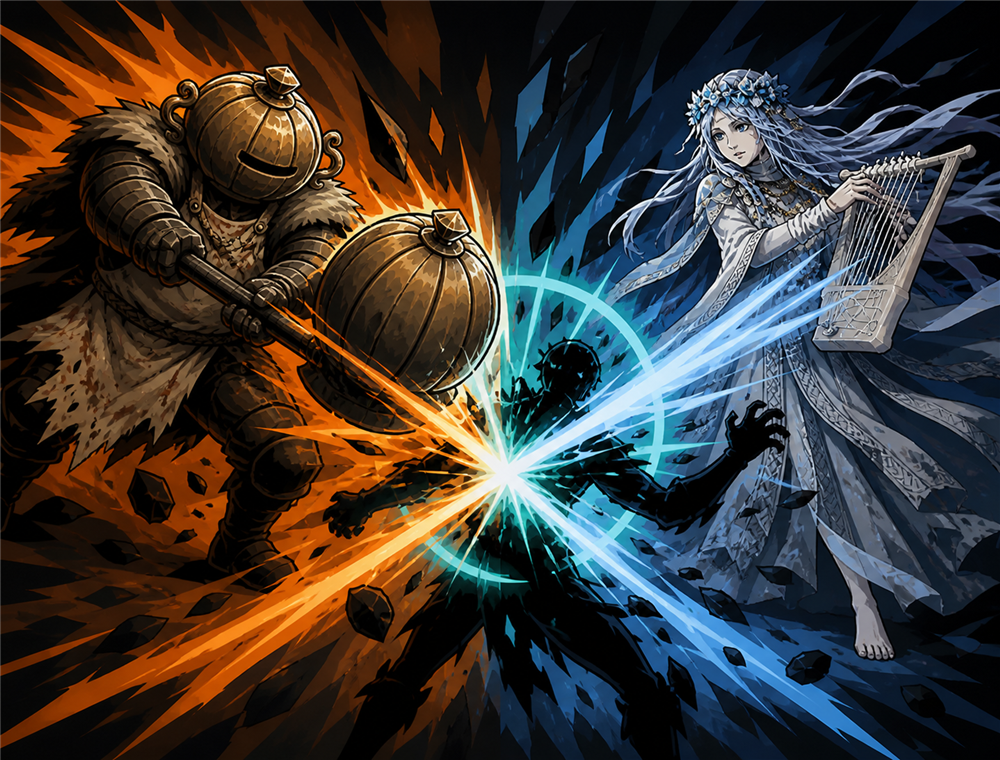
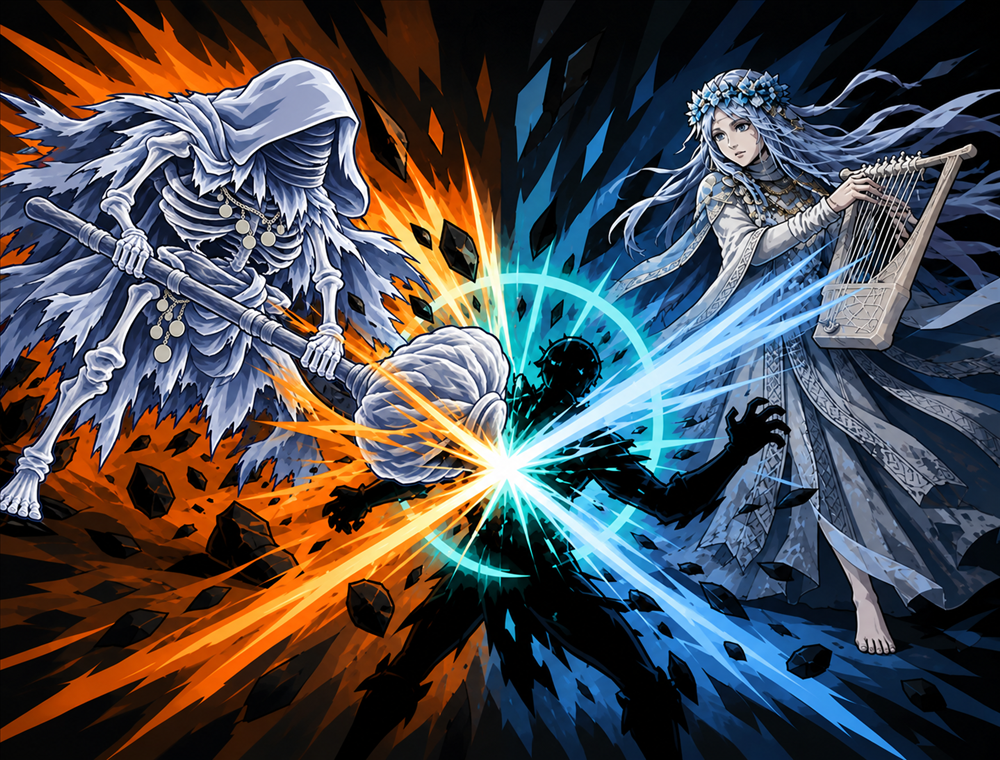
Update approved Revenant artwork and petite character visuals

diff --git a/design/Revenant_家人视觉规范.md b/design/Revenant_家人视觉规范.md
@@ -1,5 +1,18 @@
 # 复仇者家人视觉规范
 
+## 最新用户修正（2026-10-05，本节覆盖历史冲突描述）
+
+- 最新审批与构图状态：巨大兜帽宽骨架弗雷德利克战斗形象及配套动画均已获批；蛮力开路、换手、破阵重锤、合击、弗雷德利克五张卡图已获批并覆盖正式。后续十张均已获用户批准并覆盖正式；协奏曲、为我而战使用干净细线的非塔罗上一版，塔罗候选不入库。
+- 「白影诱惑」最新构图覆盖历史“只删除旧家人”：保留原白影身份、红箭与蓝黑纹理，白影置于画面中心，蓝色保护圆环完整包围白影，红箭在环外受阻；不出现家人。
+
+- 最新标注图将弗雷德利克的辨识度固定为巨大兜帽、横向格外宽的肋笼和骨盆；四肢保持骨感，不画肌肉。海伦为矮小瘦弱、小兜帽和窄骨架。双方服饰相近时以这三个比例区别，不只放大披布或武器。
+- 弗雷德利克战斗形象批准前，暂停卡图重绘；候选不能先作为卡图基准。
+
+- 弗雷德利克按正面实机参考呈现高大魁梧的整体体量：大胸腔、佝偻肩背与宽展披布，外露四肢保持骨感。禁止健美胸腹肌、粗壮肌肉手臂和肌肉大腿；魁梧不是肌肉化。保留与海伦相似的自然遮脸兜帽、残破披布、垂链圆饰和巨大圆头长柄锤；不恢复南瓜盔或厨师围裙。整体大小与披布体量以实机参考为准，不能用“枯瘦”把整体画得小巧；骨感四肢仍保留。
+- 只有三位家人使用统一冷白灵体效果；复仇者本人的常规卡图保持实体皮肤、衣物和木琴本色，特殊通灵形态除外。
+- 家人卡图修正必须保留对应正式原图的背景主色与图形纹理，不得弱化原图美观或用统一冷色抽象背景取代。
+- 「白影诱惑」保留原来的白影、红箭、蓝黑纹理与拱形，仅删除旧家人，不添加替代家人。
+
 > 本文件是海伦、弗雷德利克和塞巴斯蒂安在战斗贴图、呼唤界面、卡图与角色选择背景中的最高优先级视觉规范。用户最新书面定义高于历史资产、旧预览与旧提示词；与本文件冲突的“露脸海伦”“普通重锤弗雷德利克”“管家礼服塞巴斯蒂安”全部作废。
 
 ## 1. 共通规范

diff --git a/design/Frederick_美术强制规范.md b/design/Frederick_美术强制规范.md
@@ -1,5 +1,15 @@
 # 弗雷德利克 Frederick 美术强制规范
 
+## 最新体型修正（2026-10-05，优先于全部历史身份段）
+
+用户最新标注图明确三个骨架识别点：**巨大头部兜帽、格外宽的肋笼、格外宽的骨盆**。魁梧来自骨架本身的横向宽度，不只是披布体积；手臂和双腿仍骨感，不添加肌肉。兜帽高大、宽展、自然钝圆，遮面褶层覆盖面部，不再继承海伦的小型贴头尖兜帽。胸腔与骨盆必须同时宽，禁止把髋部画成细窄尖腰。海伦保持矮小瘦弱、兜帽与骨架均纤细，以比例区别服装相近的两人。此要求覆盖下面历史“小型自然尖兜帽”“收窄腰部”“仅披布体现体量”等冲突描述。
+
+执行顺序：当前只重绘弗雷德利克战斗形象并提交候选。**战斗形象获用户批准前，暂停所有卡图重绘，不将未获批战斗候选用于卡图。**
+
+用户已批准 `design/卡图预览/弗雷德利克_巨大兜帽宽骨架_20261005/frederick_candidate.png`，当前配套动画必须以这张图为唯一身份基准，不能使用小兜帽窄肋笼的旧正式图或之前的肌肉版候选。新动作帧先提交动画预览；本轮只制作配套动画。
+
+用户随后澄清：魁梧不等于肌肉，必须按正面实机参考图重建。高大体量来自长躯干、大胸腔、佝偻肩背、宽展披布、层叠束裹与巨大重锤；外露手臂和腿仍为骨感形态，不添加胸肌、腹肌、肱二头肌、肌肉大腿或健美人体。不得把整体缩成小巧纤弱的人形，也不得把骨感肢体扩大成肌肉。自然遮脸布兜帽、残破披布、链饰、完整双腿、圆钝长柄锤及冷白青蓝灵体效果保持。
+
 > 2026-10-05 依据用户提供的三张实际游戏截图重建。适用于战斗贴图、呼唤界面、家人卡图、角色选择剪影与后续动画。弗雷德利克身份造型以本文件及附图为准；旧版“魁梧厨师、南瓜头铁盔、厨师围裙”描述作废。截图确定形体，《杀戮尖塔2》原版资产确定项目绘画语言。
 
 ## 最新获批造型覆盖（2026-10-05）

diff --git a/design/Revenant_角色设计与动作强制规范.md b/design/Revenant_角色设计与动作强制规范.md
@@ -1,5 +1,12 @@
 # 复仇者（Revenant）角色设计与动作强制规范
 
+## 最新用户批准与修正（2026-10-05）
+
+- 已批准战斗、商店、篝火新形象：裙摆到小腿中段，露出部分小腿、脚踝与赤足；三处场景实际可见尺寸各为此前的 `0.7` 倍，保持成年女性面容与人类比例，不改为幼态角色。此要求覆盖下文历史拖地裙摆与等高描述。
+- 常规卡图中的复仇者本人保持实体：瓷白肤色、灰白服装、蓝灰披肩、旧金饰物与浅色木琴保留本色，不因家人是灵体而将她也绘制成灵体。「通灵形态」等明确指定的特殊形态另按对应批准资源。
+- 弗雷德利克按正面实机图的高大整体比例、大胸腔与宽展披布体现魁梧，外露四肢保持骨感；禁止肌肉化，不添加健美胸肌、腹肌或粗壮肌肉手臂。兜帽仍与海伦相似并遮住脸部，巨大圆头长柄锤、残破披布及灵体效果保持。
+- 修正家人卡图时保留各张正式原图具有辨识度的背景颜色、纹理、构图与事件；不得用批量统一的蓝黑碎片背景替代。
+
 > 本文是项目内复仇者角色立绘、角色选择界面、战斗姿态、头像、商店/篝火立绘和后续动画资产的最高优先级视觉规范。任何与本文冲突的旧提示词、旧资产或泛化的“白发死灵法师”印象均作废。
 
 ## 1. 权威来源与角色定位

diff --git a/design/NightMustStay_三角色卡图审查与重绘强制规范.md b/design/NightMustStay_三角色卡图审查与重绘强制规范.md
@@ -1,5 +1,14 @@
 # Night Must Stay 三角色卡图审查与重绘强制规范
 
+## 2026-10-05 用户对复仇者家人卡图的最新修正
+
+- 最新弗雷德利克身份是巨大兜帽、格外宽的肋笼与骨盆，四肢骨感；海伦矮小瘦弱，二者不能使用相同骨架比例。用户要求先批准弗雷德利克新战斗形象，在批准前暂停卡图重绘。
+
+- 保留各张正式原图具有辨识度的背景颜色和图形纹理，避免在身份修正时重构成统一冷色碎片背景。
+- 复仇者本人在常规卡图中保持实体颜色与材质；仅召唤家人使用冷白青蓝灵体效果，明确批准的特殊通灵形态除外。
+- 弗雷德利克按正面实机图的大胸腔、佝偻肩背、宽展披布与高大整体比例体现魁梧，四肢保持骨感，禁止肌肉化；自然遮脸兜帽、巨大圆头长柄锤和灵体效果保持。
+- 「白影诱惑」只删除旧家人，保留正式原图白影、红箭、背景色和纹理。
+
 > 本规范用于守护者、铁之眼和复仇者的卡图立项、生成、审查、重绘与入库。它补充而不取代各角色身份规范；发生冲突时，尺寸与通用画风以 `Slay_the_Spire_2_卡图生成强制规范.md` 为准，角色身份以各角色专属规范为准。
 
 ## 1. 审查顺序

diff --git a/design/角色战斗体型与血条强制规范.md b/design/角色战斗体型与血条强制规范.md
@@ -23,9 +23,9 @@
 
   - 守护者：非透明高度 `1353`，Sprite 缩放 `0.34`，外层缩放 `0.6703`。
   - 铁之眼：非透明高度 `1210`，Sprite 缩放 `0.36`，外层缩放 `0.7078`。
-  - 复仇者：非透明高度 `1328`，Sprite 缩放 `0.21`，PoseRoot 缩放 `1.2`，外层缩放 `0.9210`。
+  - 复仇者：按 2026-10-05 用户批准的新形象缩至此前的 `0.7` 倍；待机非透明高度 `1328`，Sprite 缩放 `0.21`，PoseRoot 缩放 `1.2`，外层缩放 `0.6447`，最终可见高度 `215.7527232 px`。个别攻击姿态根据自身非透明高度补偿 Sprite 缩放及脚底位置。
 
-- 以上三者最终可见高度与故障机器人的误差均必须低于 `0.1%`。
+- 守护者、铁之眼最终可见高度与故障机器人的误差必须低于 `0.1%`；复仇者遵守用户批准的娇小体型例外，按此前实际可见高度的 `0.7` 倍校准，不再强制与故障机器人等高。商店和篝火也分别按各自此前实际可见高度缩至 `0.7` 倍。
 
 ## 3. 落地与锚点
 
